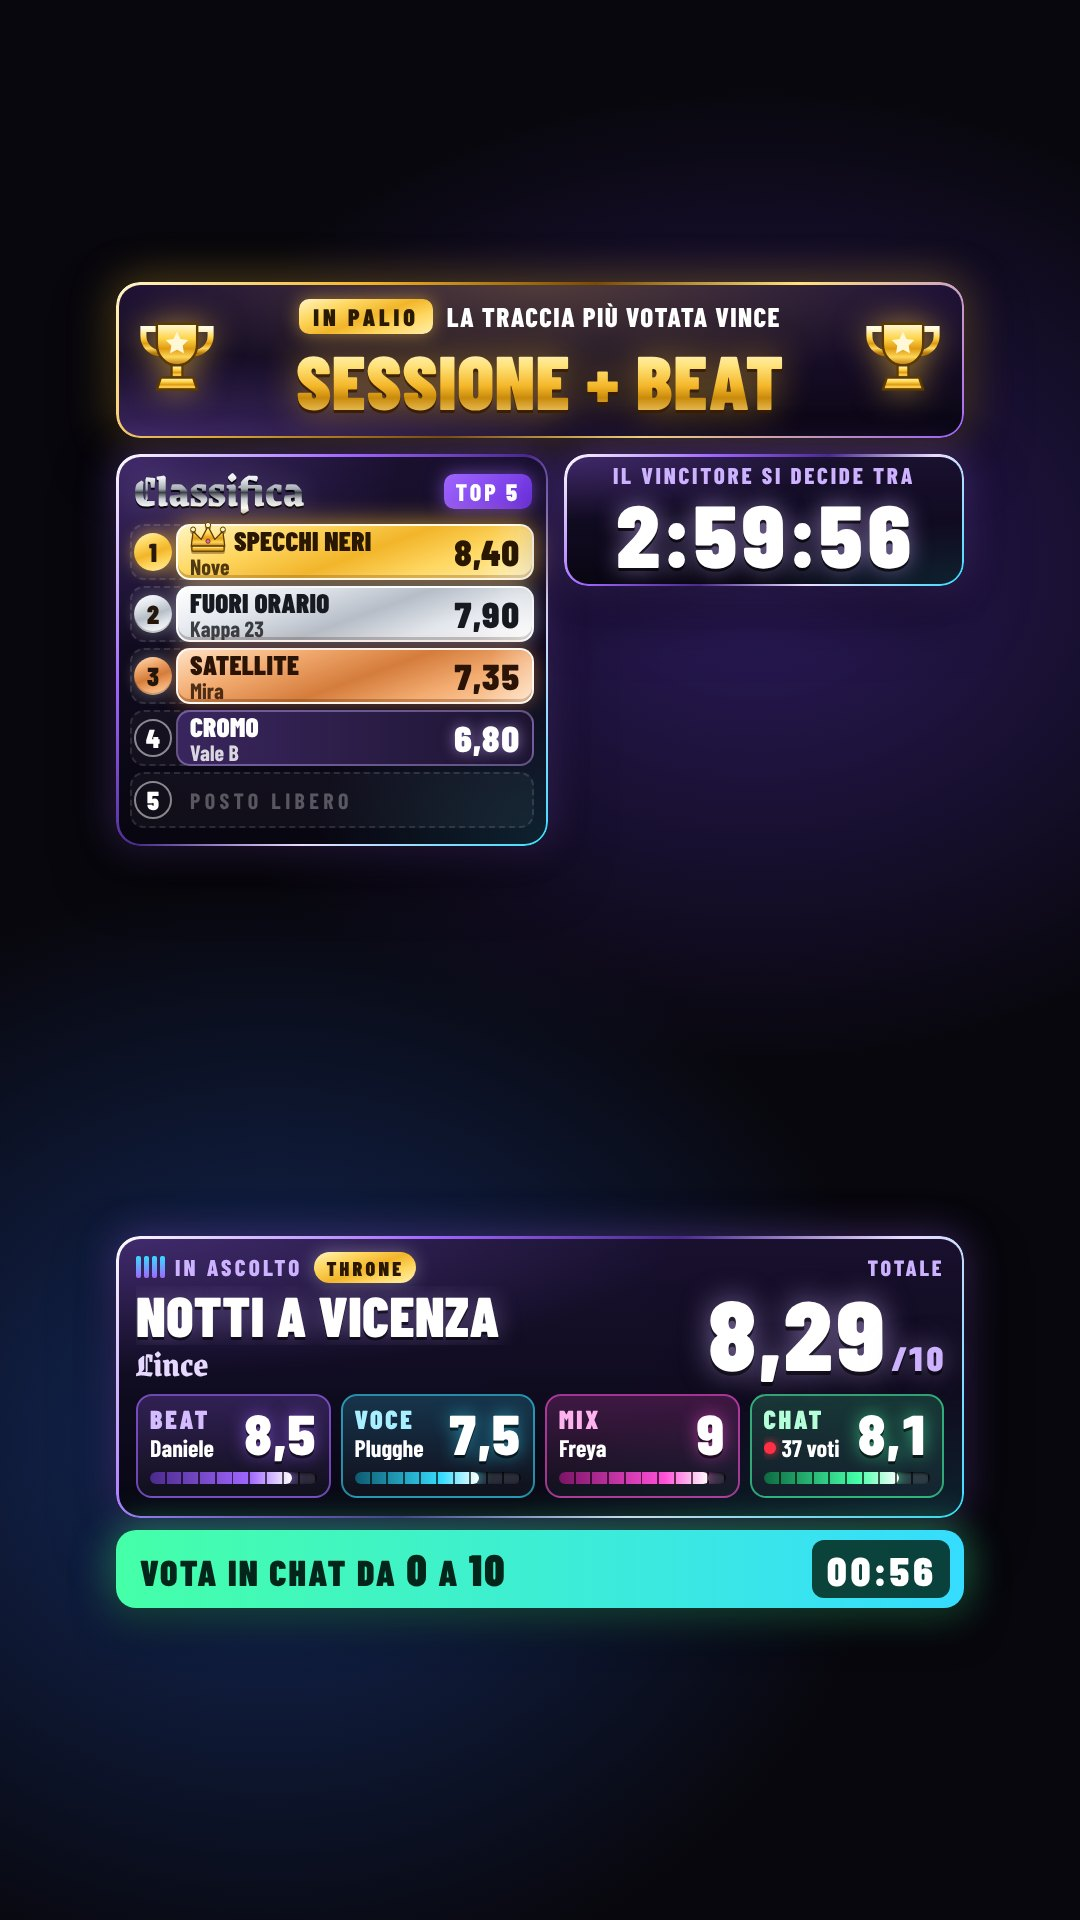
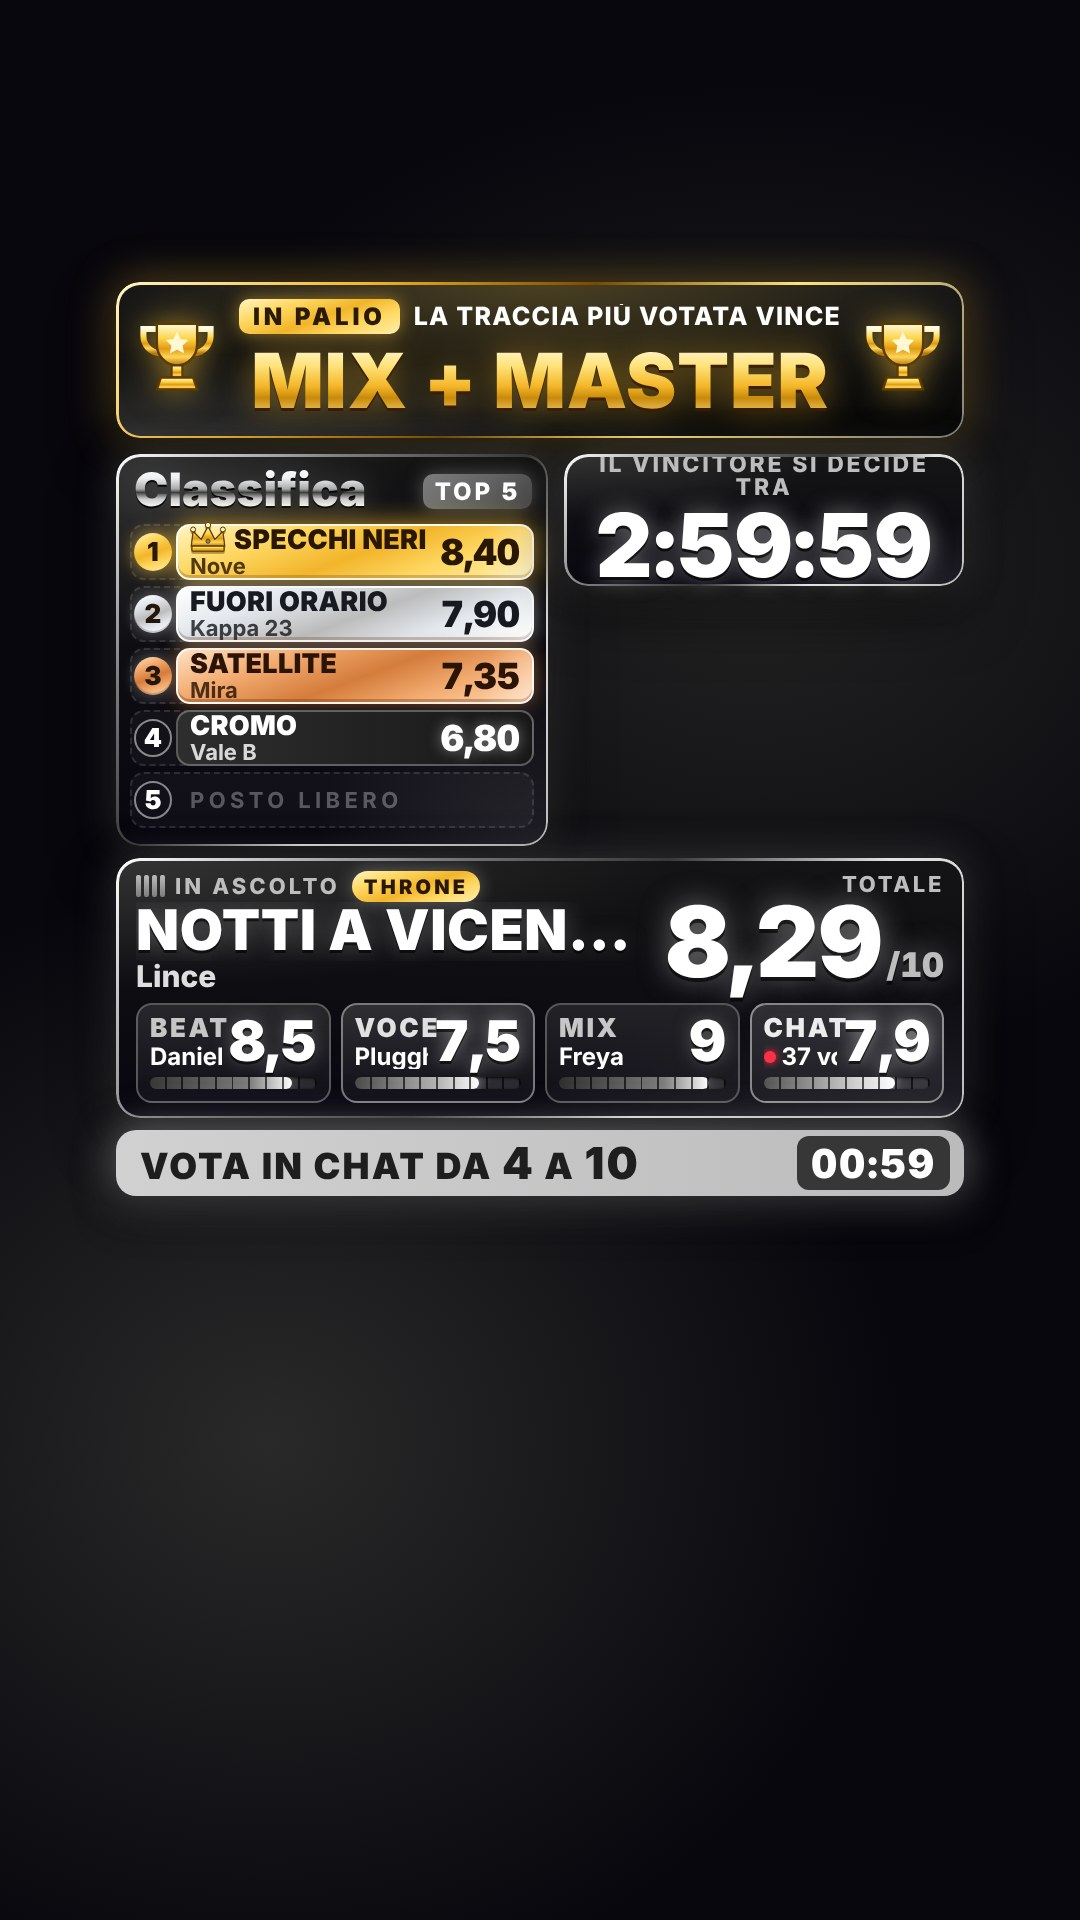
Gara: blocco voti sopra i commenti e strumento di controllo dei layout [skip netlify]
Il tabellone (y 858, alto 260) e la barra «Vota in chat» (y 1130, alta 66) salgono: il fondo della barra è a y 1196, appena
sopra i commenti di TikTok, con 12 px liberi tra classifica, tabellone e barra; premio, classifica e timer non si muovono.
L'interno del tabellone è ricomposto sui 260 px (titolo, totale, quattro rettangoli da 100).

strumenti/mockup-layout.mjs (autonomo): tabella di geometria della gara con il controllo ±1 px e dentro la zona libera,
nessuna sovrapposizione tra i pezzi dichiarati, e --controlli per le lettere tagliate (copia delle funzioni di
mockup-formati.mjs); test/geometria.test.mjs confronta il CSS con la tabella. mockup/verticale.jpg rigenerato.

Claude-Session: https://claude.ai/code/session_01KknJSv8vijv85bNpvfWr5a

diff --git a/overlay-live/public/css/overlay.css b/overlay-live/public/css/overlay.css
@@ -23,10 +23,12 @@
   --h-classifica: 392px;
   --h-timer: 132px;
   --y-notifica: 604px;
-  --y-tabellone: 1236px;
-  --h-tabellone: 282px;
-  --y-chat: 1530px;
-  --h-chat: 78px;
+  /* Blocco voti: tabellone e barra «Vota in chat» stanno appena sopra i commenti di TikTok (che partono da y 1200):
+     il fondo della barra è a y 1130 + 66 = 1196, e tra classifica, tabellone e barra restano 12 px. */
+  --y-tabellone: 858px;
+  --h-tabellone: 260px;
+  --y-chat: 1130px;
+  --h-chat: 66px;
 }
 
 .orizzontale .palco {
@@ -625,7 +627,7 @@ body.anteprima {
 
 /* ---------- Tabellone ---------- */
 .tabellone {
-  padding: 16px 20px 16px;
+  padding: 14px 20px 14px;
 }
 .verticale .tabellone {
   left: var(--x);
@@ -659,14 +661,14 @@ body.anteprima {
   display: flex;
   align-items: center;
   gap: 12px;
-  height: 30px;
-  margin-bottom: 4px;
+  height: 28px;
+  margin-bottom: 2px;
 }
 .tab-ascolto {
   display: flex;
   align-items: center;
   gap: 10px;
-  font: 800 23px/1 var(--font-dati);
+  font: 800 22px/1 var(--font-dati);
   letter-spacing: 0.14em;
   text-transform: uppercase;
   color: var(--accento-chiaro);
@@ -720,7 +722,7 @@ body.anteprima {
 
 .tab-titolo {
   margin: 0;
-  font: 900 56px/1.02 var(--font-dati);
+  font: 900 50px/1.02 var(--font-dati);
   text-transform: uppercase;
   letter-spacing: 0.01em;
   white-space: nowrap;
@@ -732,8 +734,8 @@ body.anteprima {
 }
 .tab-artista {
   margin: 0;
-  min-height: 37px;
-  font: 800 35px/1.06 var(--font-gotico);
+  min-height: 32px;
+  font: 800 30px/1.06 var(--font-gotico);
   color: #dedede;
   white-space: nowrap;
   overflow: hidden;
@@ -744,7 +746,7 @@ body.anteprima {
   text-align: right;
 }
 .totale-stato {
-  height: 30px;
+  height: 24px;
   display: flex;
   align-items: center;
   justify-content: flex-end;
@@ -760,7 +762,7 @@ body.anteprima {
   background: var(--podio-argento);
 }
 .totale-valore {
-  margin-top: 8px;
+  margin-top: 4px;
   font: 900 98px/0.86 var(--font-dati);
   font-variant-numeric: tabular-nums;
   color: #fff;
@@ -802,7 +804,7 @@ body.anteprima {
   display: grid;
   grid-template-columns: repeat(4, minmax(0, 1fr));
   gap: 10px;
-  margin-top: 12px;
+  margin-top: 10px;
 }
 /* Colori espliciti, senza color-mix(): il browser di OBS e LIVE Studio può essere un Chromium vecchio */
 .cat {
@@ -816,7 +818,7 @@ body.anteprima {
   grid-template-areas: "nome valore" "giudice valore" "barra barra";
   grid-template-rows: auto auto 1fr;
   column-gap: 6px;
-  height: 104px;
+  height: 100px;
   box-sizing: border-box;
   padding: 10px 12px 12px;
   border-radius: 16px;
@@ -944,7 +946,7 @@ body.anteprima {
 }
 .chat-timer {
   min-width: 110px;
-  padding: 10px 14px 8px;
+  padding: 8px 14px 6px;
   border-radius: 12px;
   text-align: center;
   font: 900 40px/1 var(--font-dati);
